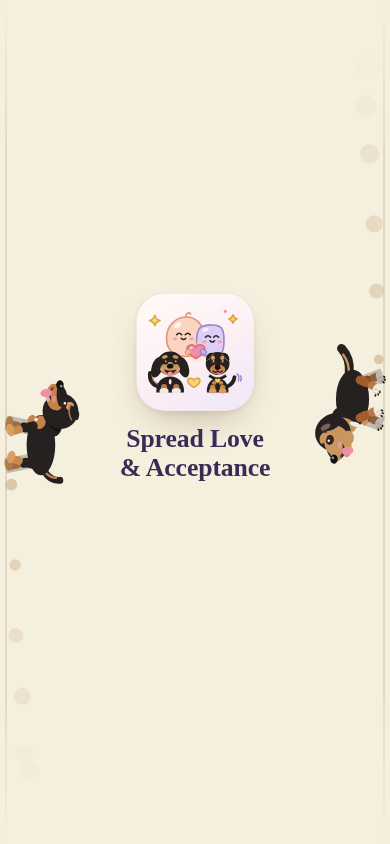
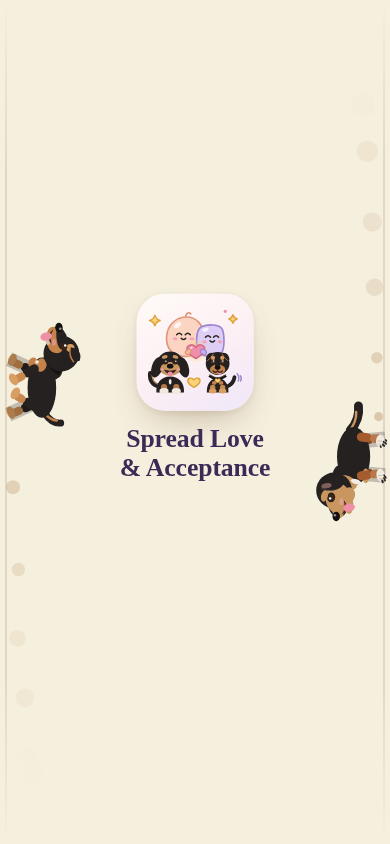
Tidbit and Sugarfoot run in the garden behind the home page again, on phones too; sw tol-v146
Claude-Session: https://claude.ai/code/session_01F11x81sfGg3qnfmPYFW4i1

Changed region(s): [[0.0, 0.3697, 0.2154, 0.5853], [0.8, 0.4005, 1.0, 0.6161], [0.0308, 0.6469, 0.0615, 0.6777]]

diff --git a/index.html b/index.html
@@ -87,7 +87,7 @@
 <script type="application/ld+json">{"@context":"https://schema.org","@graph":[{"@type":"Organization","@id":"https://spreadloveandacceptance.com/#org","name":"Spread Love & Acceptance","alternateName":["Spread Love and Acceptance","spreadloveandacceptance"],"url":"https://spreadloveandacceptance.com/","logo":{"@type":"ImageObject","@id":"https://spreadloveandacceptance.com/#logo","url":"https://spreadloveandacceptance.com/assets/img/logo-stacked.png","contentUrl":"https://spreadloveandacceptance.com/assets/img/logo-stacked.png","caption":"Spread Love & Acceptance"},"image":{"@id":"https://spreadloveandacceptance.com/#logo"},"email":"patrick.christian.andrews@gmail.com","slogan":"See it fairly. Say it kindly.","description":"Spread Love & Acceptance is a young, independent start-up building a free, growing suite of self-help tools for understanding yourself and sharing life kindly with the people around you. It brings together practical relationship tools, gentle games, calm breathing and sound spaces, and a plain-language library, with new tools and content added all the time. Everything you type stays on your device.","founder":{"@type":"Person","@id":"https://spreadloveandacceptance.com/about.html#christian","name":"Christian","url":"https://spreadloveandacceptance.com/about.html"},"knowsAbout":["self-help","relationships","love and acceptance","kindness","appreciation","communication in relationships","mental load","invisible labor","division of labor at home","household chores for couples","calm","breathing exercises","mindfulness","neurodiversity","neurodivergent relationships","self-discovery"]},{"@type":"Person","@id":"https://spreadloveandacceptance.com/about.html#christian","name":"Christian","url":"https://spreadloveandacceptance.com/about.html","jobTitle":"Creator of Spread Love & Acceptance","worksFor":{"@id":"https://spreadloveandacceptance.com/#org"},"description":"Christian (they/them) created Spread Love & Acceptance after working as a government auditor."},{"@type":"WebSite","@id":"https://spreadloveandacceptance.com/#website","name":"Spread Love & Acceptance","alternateName":["Spread Love and Acceptance"],"url":"https://spreadloveandacceptance.com/","description":"Free self-help for calmer, fairer relationships: share chores and the mental load, check how a text lands, calm down and understand yourself. No sign-up.","inLanguage":"en-US","publisher":{"@id":"https://spreadloveandacceptance.com/#org"},"keywords":"self-help, relationships, kindness, love, appreciation, acceptance, connection, communication, calm, peace, harmony, reconciliation, emotional wellbeing, self-discovery, fairness at home, mental load, invisible work, free self-help tools, psychology-informed, personal growth, healthy relationships, understanding yourself, kind communication, couples, family, friends, roommates, coworkers, caregivers","potentialAction":{"@type":"SearchAction","target":{"@type":"EntryPoint","urlTemplate":"https://spreadloveandacceptance.com/explore.html?q={search_term_string}"},"query-input":"required name=search_term_string"}},{"@id":"https://spreadloveandacceptance.com/#page","name":"Free Self-Help for Relationships · Spread Love & Acceptance","headline":"Free Self-Help for Relationships · Spread Love & Acceptance","description":"Free self-help for calmer, fairer relationships: share chores and the mental load, check how a text lands, calm down and understand yourself. No sign-up.","url":"https://spreadloveandacceptance.com/","inLanguage":"en-US","isAccessibleForFree":true,"keywords":"self-help, relationships, kindness, love, appreciation, acceptance, connection, communication, calm, peace, harmony, reconciliation, emotional wellbeing, self-discovery, fairness at home, mental load, invisible work, free self-help tools, psychology-informed, personal growth, healthy relationships, understanding yourself, kind communication, couples, family, friends, roommates, coworkers, caregivers","publisher":{"@type":"Organization","@id":"https://spreadloveandacceptance.com/#org","name":"Spread Love & Acceptance","url":"https://spreadloveandacceptance.com/","logo":{"@type":"ImageObject","url":"https://spreadloveandacceptance.com/assets/img/logo-stacked.png"}},"isPartOf":{"@type":"WebSite","@id":"https://spreadloveandacceptance.com/#website","name":"Spread Love & Acceptance","url":"https://spreadloveandacceptance.com/"},"datePublished":"2026-09-29","dateModified":"2026-10-20","image":"https://spreadloveandacceptance.com/assets/img/og-image.png","primaryImageOfPage":{"@type":"ImageObject","url":"https://spreadloveandacceptance.com/assets/img/og-image.png"},"@type":"WebPage","about":{"@id":"https://spreadloveandacceptance.com/#org"}}]}</script>
 <!-- seo:end -->
 </head>
-<body class="h18-page" data-no-offer data-no-share data-no-reading data-no-listen data-no-where data-no-related data-no-fullpath data-no-tip data-no-learnplay data-no-cheer data-no-pillars data-no-buddies data-no-pupvisits data-no-brain-break data-no-clip data-no-dives data-no-comeback data-no-garden data-no-weather data-no-private-note data-no-line-share data-no-wash data-no-pudcards>
+<body class="h18-page" data-no-offer data-no-share data-no-reading data-no-listen data-no-where data-no-related data-no-fullpath data-no-tip data-no-learnplay data-no-cheer data-no-pillars data-no-buddies data-no-pupvisits data-no-brain-break data-no-clip data-no-dives data-no-comeback data-no-weather data-no-private-note data-no-line-share data-no-wash data-no-pudcards>
 <main class="read is-wide h18" id="main">
 <!-- tells site.js not to add its own Professor Puddles hello here (the header's Ask is enough) -->
 <span class="hh-pud" hidden></span>

diff --git a/assets/js/site.js b/assets/js/site.js
@@ -4017,7 +4017,10 @@
   // Settings is remembered, like any other choice made here
   function stillDefault() {
     var mm = window.matchMedia;
-    return !!(mm && (mm('(prefers-reduced-motion: reduce)').matches || mm('(max-width: 700px) and (pointer: coarse)').matches || mm('(max-width: 560px)').matches));
+    if (mm && mm('(prefers-reduced-motion: reduce)').matches) return true;
+    // the home page keeps Tidbit and Sugarfoot running in the garden behind it on phones too
+    if (current === '/index.html') return false;
+    return !!(mm && (mm('(max-width: 700px) and (pointer: coarse)').matches || mm('(max-width: 560px)').matches));
   }
   var stillOn = (function () {
     var v = lsGet(STILL_KEY);

diff --git a/sw.js b/sw.js
@@ -9,7 +9,7 @@
    The Frequency Buddies episodes (/assets/js/buddies/) are small data files, saved up front so an episode
    plays offline; a future episode not in the list is saved the first time it's watched.
    Bump VERSION when the list below changes. */
-var VERSION = 'tol-v145';
+var VERSION = 'tol-v146';
 // A first visit saves only this small shell (so the offline page works). The full list below is saved only
 // once the site is installed as an app (site.js asks for it), so a visitor on a metered plan never
 // downloads megabytes they didn't ask for. Everything else is saved the first time it's used.
